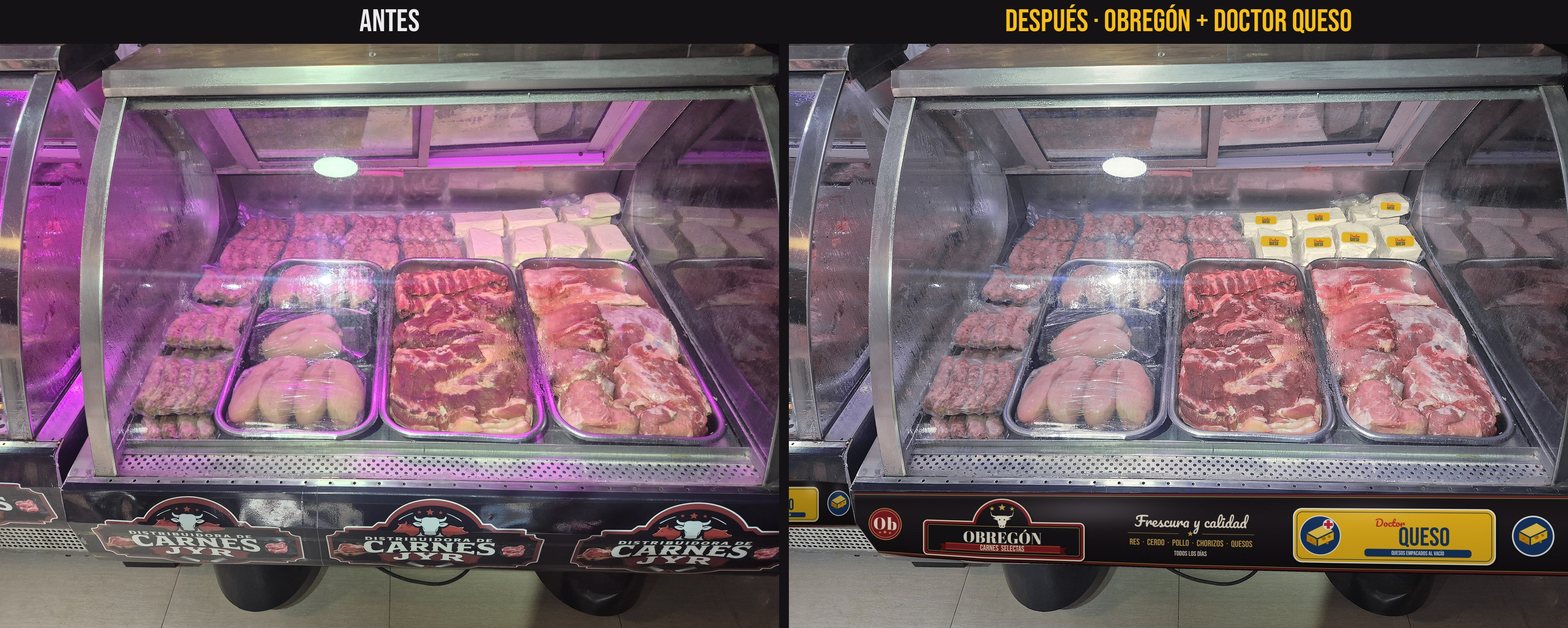
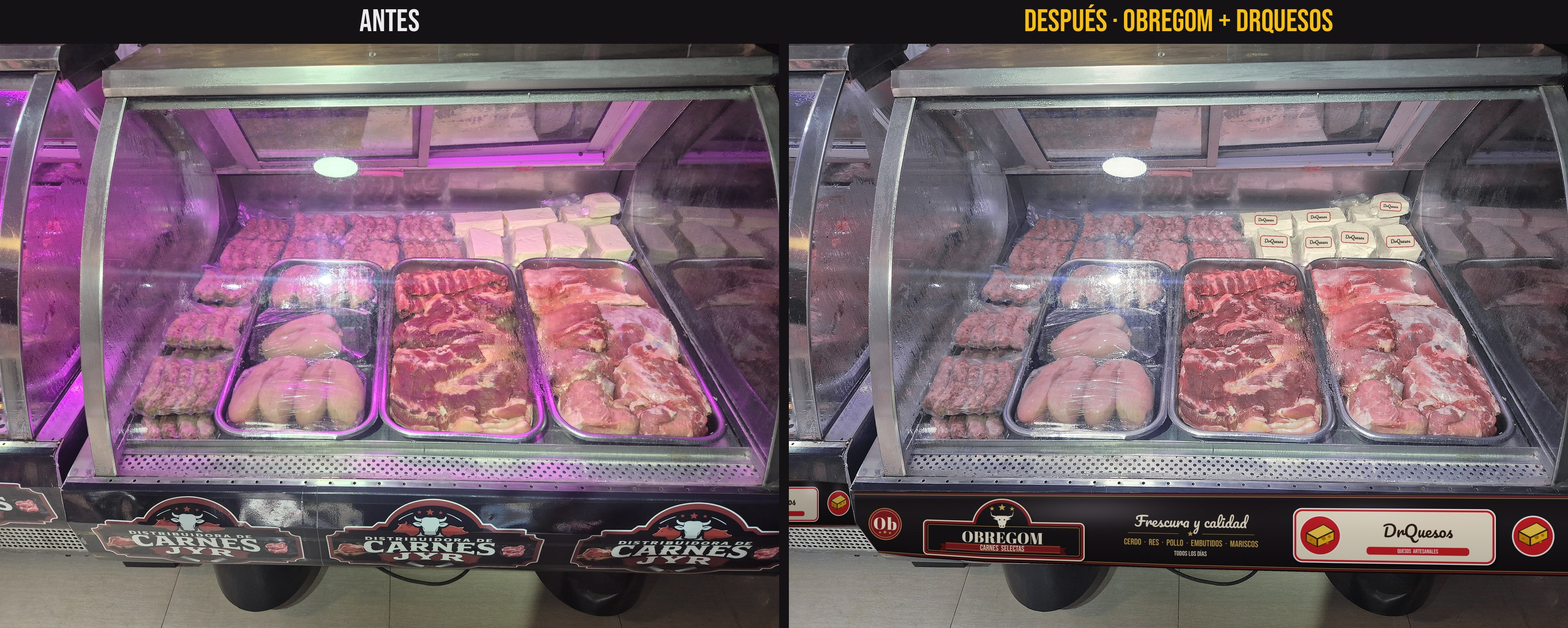
Vitrina: rebranding a OBREGOM y DrQuesos
Actualiza el vinilo frontal (escudo OBREGOM, insignia DrQuesos en crema y
rojo, línea cerdo · res · pollo · embutidos · mariscos) y las etiquetas de
los quesos; regenera la foto final y el antes/después.

Claude-Session: https://claude.ai/code/session_01JFYhDM8VcAGucRihn9W6rq

diff --git a/vitrina/vinilo.py b/vitrina/vinilo.py
@@ -1,4 +1,4 @@
-"""Arte plano del vinilo frontal: Obregón (carnes) + Doctor Queso (quesos al vacío)."""
+"""Arte plano del vinilo frontal: OBREGOM (carnes) + DrQuesos (quesos artesanales)."""
 import math
 from pathlib import Path
 
@@ -16,6 +16,9 @@ AMARILLO = (247, 190, 22)
 AMARILLO_OSC = (214, 142, 10)
 AZUL = (18, 52, 102)
 BLANCO = (255, 255, 255)
+ROJO = (210, 24, 32)
+CREMA_Q = (248, 238, 216)
+CAFE = (42, 24, 16)
 
 
 def font(name, size):
@@ -72,7 +75,7 @@ def cabeza_toro(d, cx, cy, s, fill, hueco):
 
 
 def insignia_obregon(W, H):
-    """Escudo de Obregón sobre transparente, tamaño W x H."""
+    """Escudo de OBREGOM sobre transparente, tamaño W x H."""
     im = Image.new("RGBA", (W, H), (0, 0, 0, 0))
     d = ImageDraw.Draw(im)
     cx = W / 2
@@ -97,7 +100,7 @@ def insignia_obregon(W, H):
     cabeza_toro(d, cx, arc_cy - arc_r * 0.30, arc_r * 0.36, CREMA, NEGRO)
 
     # Nombre
-    text_c(d, (cx, H * 0.635), "OBREGÓN", font("AbrilFatface-Regular.ttf", int(H * 0.235)), CREMA)
+    text_c(d, (cx, H * 0.635), "OBREGOM", font("AbrilFatface-Regular.ttf", int(H * 0.235)), CREMA)
 
     # Cinta "CARNES SELECTAS"
     ry0, ry1 = H * 0.745, H * 0.855
@@ -114,50 +117,42 @@ def insignia_obregon(W, H):
     return im
 
 
-def cuña_queso(d, x, y, s):
+def cuña_queso(d, x, y, s, borde=AZUL):
     """Cuña de queso con agujeros; (x, y) esquina izquierda-abajo, s = ancho."""
     top = [(x, y - s * 0.38), (x + s * 0.62, y - s * 0.70), (x + s, y - s * 0.46), (x + s * 0.40, y - s * 0.16)]
     front = [(x, y - s * 0.38), (x + s * 0.40, y - s * 0.16), (x + s * 0.40, y + s * 0.14), (x, y - s * 0.06)]
     side = [(x + s * 0.40, y - s * 0.16), (x + s, y - s * 0.46), (x + s, y - s * 0.14), (x + s * 0.40, y + s * 0.14)]
-    d.polygon(side, fill=AMARILLO, outline=AZUL, width=8)
-    d.polygon(front, fill=AMARILLO_OSC, outline=AZUL, width=8)
-    d.polygon(top, fill=(255, 214, 80), outline=AZUL, width=8)
+    d.polygon(side, fill=AMARILLO, outline=borde, width=8)
+    d.polygon(front, fill=AMARILLO_OSC, outline=borde, width=8)
+    d.polygon(top, fill=(255, 214, 80), outline=borde, width=8)
     for hx, hy, hr in ((0.62, -0.18, 0.07), (0.82, -0.25, 0.05), (0.75, -0.02, 0.045),
                        (0.17, -0.12, 0.05), (0.27, 0.02, 0.035)):
         d.ellipse((x + s * (hx - hr), y + s * (hy - hr), x + s * (hx + hr), y + s * (hy + hr)),
                   fill=(196, 120, 6))
 
 
-def insignia_doctor_queso(W, H):
-    """Insignia de Doctor Queso sobre transparente, tamaño W x H."""
+def insignia_drquesos(W, H):
+    """Insignia de DrQuesos sobre transparente, tamaño W x H."""
     im = Image.new("RGBA", (W, H), (0, 0, 0, 0))
     d = ImageDraw.Draw(im)
     box = (W * 0.03, H * 0.10, W * 0.97, H * 0.92)
     d.rounded_rectangle((box[0] - 14, box[1] - 14, box[2] + 14, box[3] + 14), radius=90, fill=BLANCO)
-    d.rounded_rectangle(box, radius=78, fill=AMARILLO)
-    d.rounded_rectangle((box[0] + 22, box[1] + 22, box[2] - 22, box[3] - 22), radius=60,
-                        outline=AZUL, width=6)
+    d.rounded_rectangle(box, radius=78, fill=ROJO)
+    d.rounded_rectangle((box[0] + 18, box[1] + 18, box[2] - 18, box[3] - 18), radius=62, fill=CREMA_Q)
 
-    # Medallón azul con la cuña y la cruz médica
+    # Medallón rojo con la cuña de queso
     mr = H * 0.30
     mcx, mcy = box[0] + mr + 60, (box[1] + box[3]) / 2
     d.ellipse((mcx - mr - 10, mcy - mr - 10, mcx + mr + 10, mcy + mr + 10), fill=BLANCO)
-    d.ellipse((mcx - mr, mcy - mr, mcx + mr, mcy + mr), fill=AZUL)
-    cuña_queso(d, mcx - mr * 0.72, mcy + mr * 0.42, mr * 1.45)
-    cr, cw = mr * 0.22, mr * 0.075
-    ccx, ccy = mcx + mr * 0.42, mcy - mr * 0.58
-    d.ellipse((ccx - cr * 1.25, ccy - cr * 1.25, ccx + cr * 1.25, ccy + cr * 1.25), fill=BLANCO)
-    d.rectangle((ccx - cw, ccy - cr, ccx + cw, ccy + cr), fill=(206, 32, 41))
-    d.rectangle((ccx - cr, ccy - cw, ccx + cr, ccy + cw), fill=(206, 32, 41))
+    d.ellipse((mcx - mr, mcy - mr, mcx + mr, mcy + mr), fill=ROJO)
+    cuña_queso(d, mcx - mr * 0.72, mcy + mr * 0.42, mr * 1.45, borde=CAFE)
 
     # Textos
     tx = (mcx + mr + box[2]) / 2 + 10
-    d.text((tx - W * 0.20, H * 0.30), "Doctor", font=font("Pacifico-Regular.ttf", int(H * 0.15)),
-           fill=(206, 32, 41), anchor="lm")
-    text_c(d, (tx + W * 0.03, H * 0.53), "QUESO", font("BebasNeue-Regular.ttf", int(H * 0.40)), AZUL)
-    pill = (tx - W * 0.25, H * 0.71, tx + W * 0.25, H * 0.83)
-    d.rounded_rectangle(pill, radius=30, fill=AZUL)
-    text_c(d, (tx, (pill[1] + pill[3]) / 2 + 2), "QUESOS EMPACADOS AL VACÍO",
+    text_c(d, (tx, H * 0.42), "DrQuesos", font("Pacifico-Regular.ttf", int(H * 0.25)), CAFE)
+    pill = (tx - W * 0.24, H * 0.68, tx + W * 0.24, H * 0.80)
+    d.rounded_rectangle(pill, radius=30, fill=ROJO)
+    text_c(d, (tx, (pill[1] + pill[3]) / 2 + 2), "QUESOS  ARTESANALES",
            font("BebasNeue-Regular.ttf", int(H * 0.09)), BLANCO)
     return im
 
@@ -179,7 +174,7 @@ def vinilo(W=7360, H=800):
 
     # Insignias (centros en coordenadas del vinilo)
     ob = insignia_obregon(1900, 760)
-    dq = insignia_doctor_queso(2050, 640)
+    dq = insignia_drquesos(2050, 640)
     sombra = Image.new("RGBA", im.size, (0, 0, 0, 0))
     for layer, (cx, cy) in ((ob, (1720, 410)), (dq, (5700, 420))):
         a = layer.split()[-1].point(lambda v: int(v * 0.7))
@@ -196,7 +191,7 @@ def vinilo(W=7360, H=800):
     d.line((cx - 640, 430, cx - 120, 430), fill=ORO, width=4)
     d.line((cx + 120, 430, cx + 640, 430), fill=ORO, width=4)
     estrella(d, cx, 430, 30, ORO)
-    text_c(d, (cx, 530), "RES  ·  CERDO  ·  POLLO  ·  CHORIZOS  ·  QUESOS",
+    text_c(d, (cx, 530), "CERDO  ·  RES  ·  POLLO  ·  EMBUTIDOS  ·  MARISCOS",
            font("BebasNeue-Regular.ttf", 92), ORO)
     text_c(d, (cx, 640), "TODOS LOS DÍAS", font("BebasNeue-Regular.ttf", 70), CREMA)
 
@@ -209,8 +204,8 @@ def vinilo(W=7360, H=800):
         estrella(d, x + dx, 520 - (8 if dx == 0 else 0), 18 if dx else 24, ORO)
     x = W - 330
     d.ellipse((x - 200, 210, x + 200, 610), fill=BLANCO)
-    d.ellipse((x - 185, 225, x + 185, 595), fill=AZUL)
-    cuña_queso(d, x - 140, 470, 280)
+    d.ellipse((x - 185, 225, x + 185, 595), fill=ROJO)
+    cuña_queso(d, x - 140, 470, 280, borde=CAFE)
     return im
 
 

diff --git a/vitrina/componer.py b/vitrina/componer.py
@@ -1,4 +1,4 @@
-"""Limpia la foto de la vitrina y le aplica el branding Obregón + Doctor Queso.
+"""Limpia la foto de la vitrina y le aplica el branding OBREGOM + DrQuesos.
 
 Uso: python3 vitrina/componer.py  ->  vitrina/salida/vitrina-obregon-doctor-queso.jpg
 """
@@ -7,7 +7,7 @@ from pathlib import Path
 import numpy as np
 from PIL import Image, ImageDraw, ImageFilter
 
-from vinilo import AMARILLO, AZUL, font, vinilo
+from vinilo import AMARILLO, CAFE, CREMA_Q, ROJO, font, vinilo
 
 AQUI = Path(__file__).parent
 ORIGINAL = AQUI / "original" / "vitrina-original.jpg"
@@ -62,7 +62,7 @@ def corregir_color(img):
     return out.filter(ImageFilter.UnsharpMask(radius=2.2, percent=70, threshold=2))
 
 
-# Etiquetas Doctor Queso sobre los bloques al vacío: (centro x, centro y, ancho, giro°)
+# Etiquetas DrQuesos sobre los bloques al vacío: (centro x, centro y, ancho, giro°)
 ETIQUETAS = [(2490, 1015, 140, -2), (2720, 1020, 135, 1), (2905, 995, 140, -3), (3140, 1015, 145, 2),
              (2450, 905, 115, -1), (2720, 890, 120, 2), (3090, 835, 110, -4)]
 
@@ -73,12 +73,10 @@ def etiqueta_queso(w):
     W, H = w * s, int(w * 0.42) * s
     im = Image.new("RGBA", (W, H), (0, 0, 0, 0))
     d = ImageDraw.Draw(im)
-    d.rounded_rectangle((0, 0, W - 1, H - 1), radius=H // 4, fill=(245, 245, 240, 255))
-    d.rounded_rectangle((6 * s // 2, 6 * s // 2, W - 1 - 3 * s, H - 1 - 3 * s), radius=H // 5, fill=AMARILLO)
-    d.text((W * 0.5, H * 0.36), "Doctor", font=font("Pacifico-Regular.ttf", int(H * 0.30)),
-           fill=(206, 32, 41), anchor="mm")
-    d.text((W * 0.5, H * 0.70), "QUESO", font=font("BebasNeue-Regular.ttf", int(H * 0.42)),
-           fill=AZUL, anchor="mm")
+    d.rounded_rectangle((0, 0, W - 1, H - 1), radius=H // 4, fill=ROJO)
+    d.rounded_rectangle((3 * s, 3 * s, W - 1 - 3 * s, H - 1 - 3 * s), radius=H // 5, fill=CREMA_Q)
+    d.text((W * 0.5, H * 0.46), "DrQuesos", font=font("Pacifico-Regular.ttf", int(H * 0.40)),
+           fill=CAFE, anchor="mm")
     return im.resize((w, H // s), Image.LANCZOS)
 
 
@@ -189,6 +187,6 @@ if __name__ == "__main__":
     d = ImageDraw.Draw(comp)
     f = font("BebasNeue-Regular.ttf", 64)
     d.text((800, 45), "ANTES", font=f, fill=(235, 235, 235), anchor="mm")
-    d.text((2420, 45), "DESPUÉS · OBREGÓN + DOCTOR QUESO", font=f, fill=AMARILLO, anchor="mm")
+    d.text((2420, 45), "DESPUÉS · OBREGOM + DRQUESOS", font=f, fill=AMARILLO, anchor="mm")
     comp.save(SALIDA / "antes-despues.jpg", quality=88)
     print("ok", img.size)
